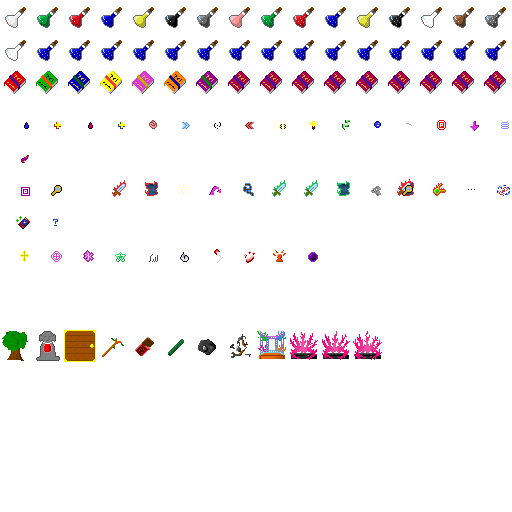
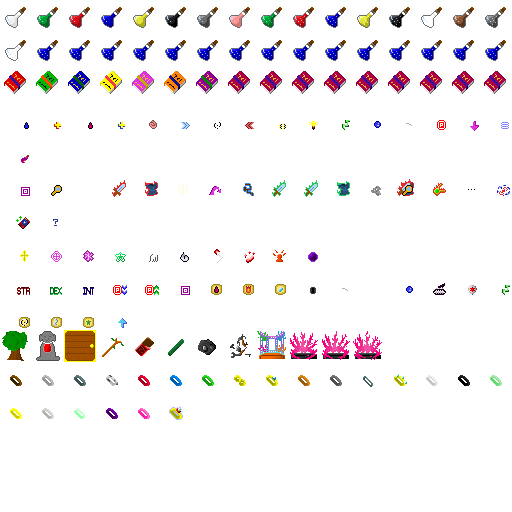
반지 그림 추가, 이제 아티펙트반지로는 일반반지 식별이 되지않음

diff --git a/th_crawl/item.cpp b/th_crawl/item.cpp
@@ -515,6 +515,11 @@ bool item::draw(LPD3DXSPRITE pSprite, ID3DXFont* pfont, float x_, float y_)
 				img_item_amulet_kind[min(AMT_MAX - 1, max(0, value1))].draw(pSprite, x_, y_, 255);
 			}
 		}
+		else if (type == ITM_RING) {
+			if (iden_list.ring_list[value1].iden && !isArtifact()) {
+				img_item_ring_kind[min(RGT_MAX - 1, max(0, value1))].draw(pSprite, x_, y_, 255);
+			}
+		}
 		return return_;
 	}
 	else
@@ -851,7 +856,8 @@ void item::Identify()
 	switch(type)
 	{
 	case ITM_RING:
-		iden_list.ring_list[value1].iden = 2;
+		if(!isArtifact())
+			iden_list.ring_list[value1].iden = 2;
 		if(!prev_iden && you.isequip(this))
 			unidenequipring((ring_type)value1, value2*(-1));
 		you.auto_equip_iden();

diff --git a/th_crawl/monster_texture.h b/th_crawl/monster_texture.h
@@ -326,7 +326,9 @@ extern textures img_item_book[];
 extern textures img_item_potion_kind[];
 extern textures img_item_scroll_kind[];
 extern textures img_item_amulet_kind[];
-extern textures img_item_ring;
+extern textures img_item_ring_kind[];
+extern textures img_item_ring[];
+extern textures img_item_artifact_ring;
 
 extern textures img_item_amulet;
 
